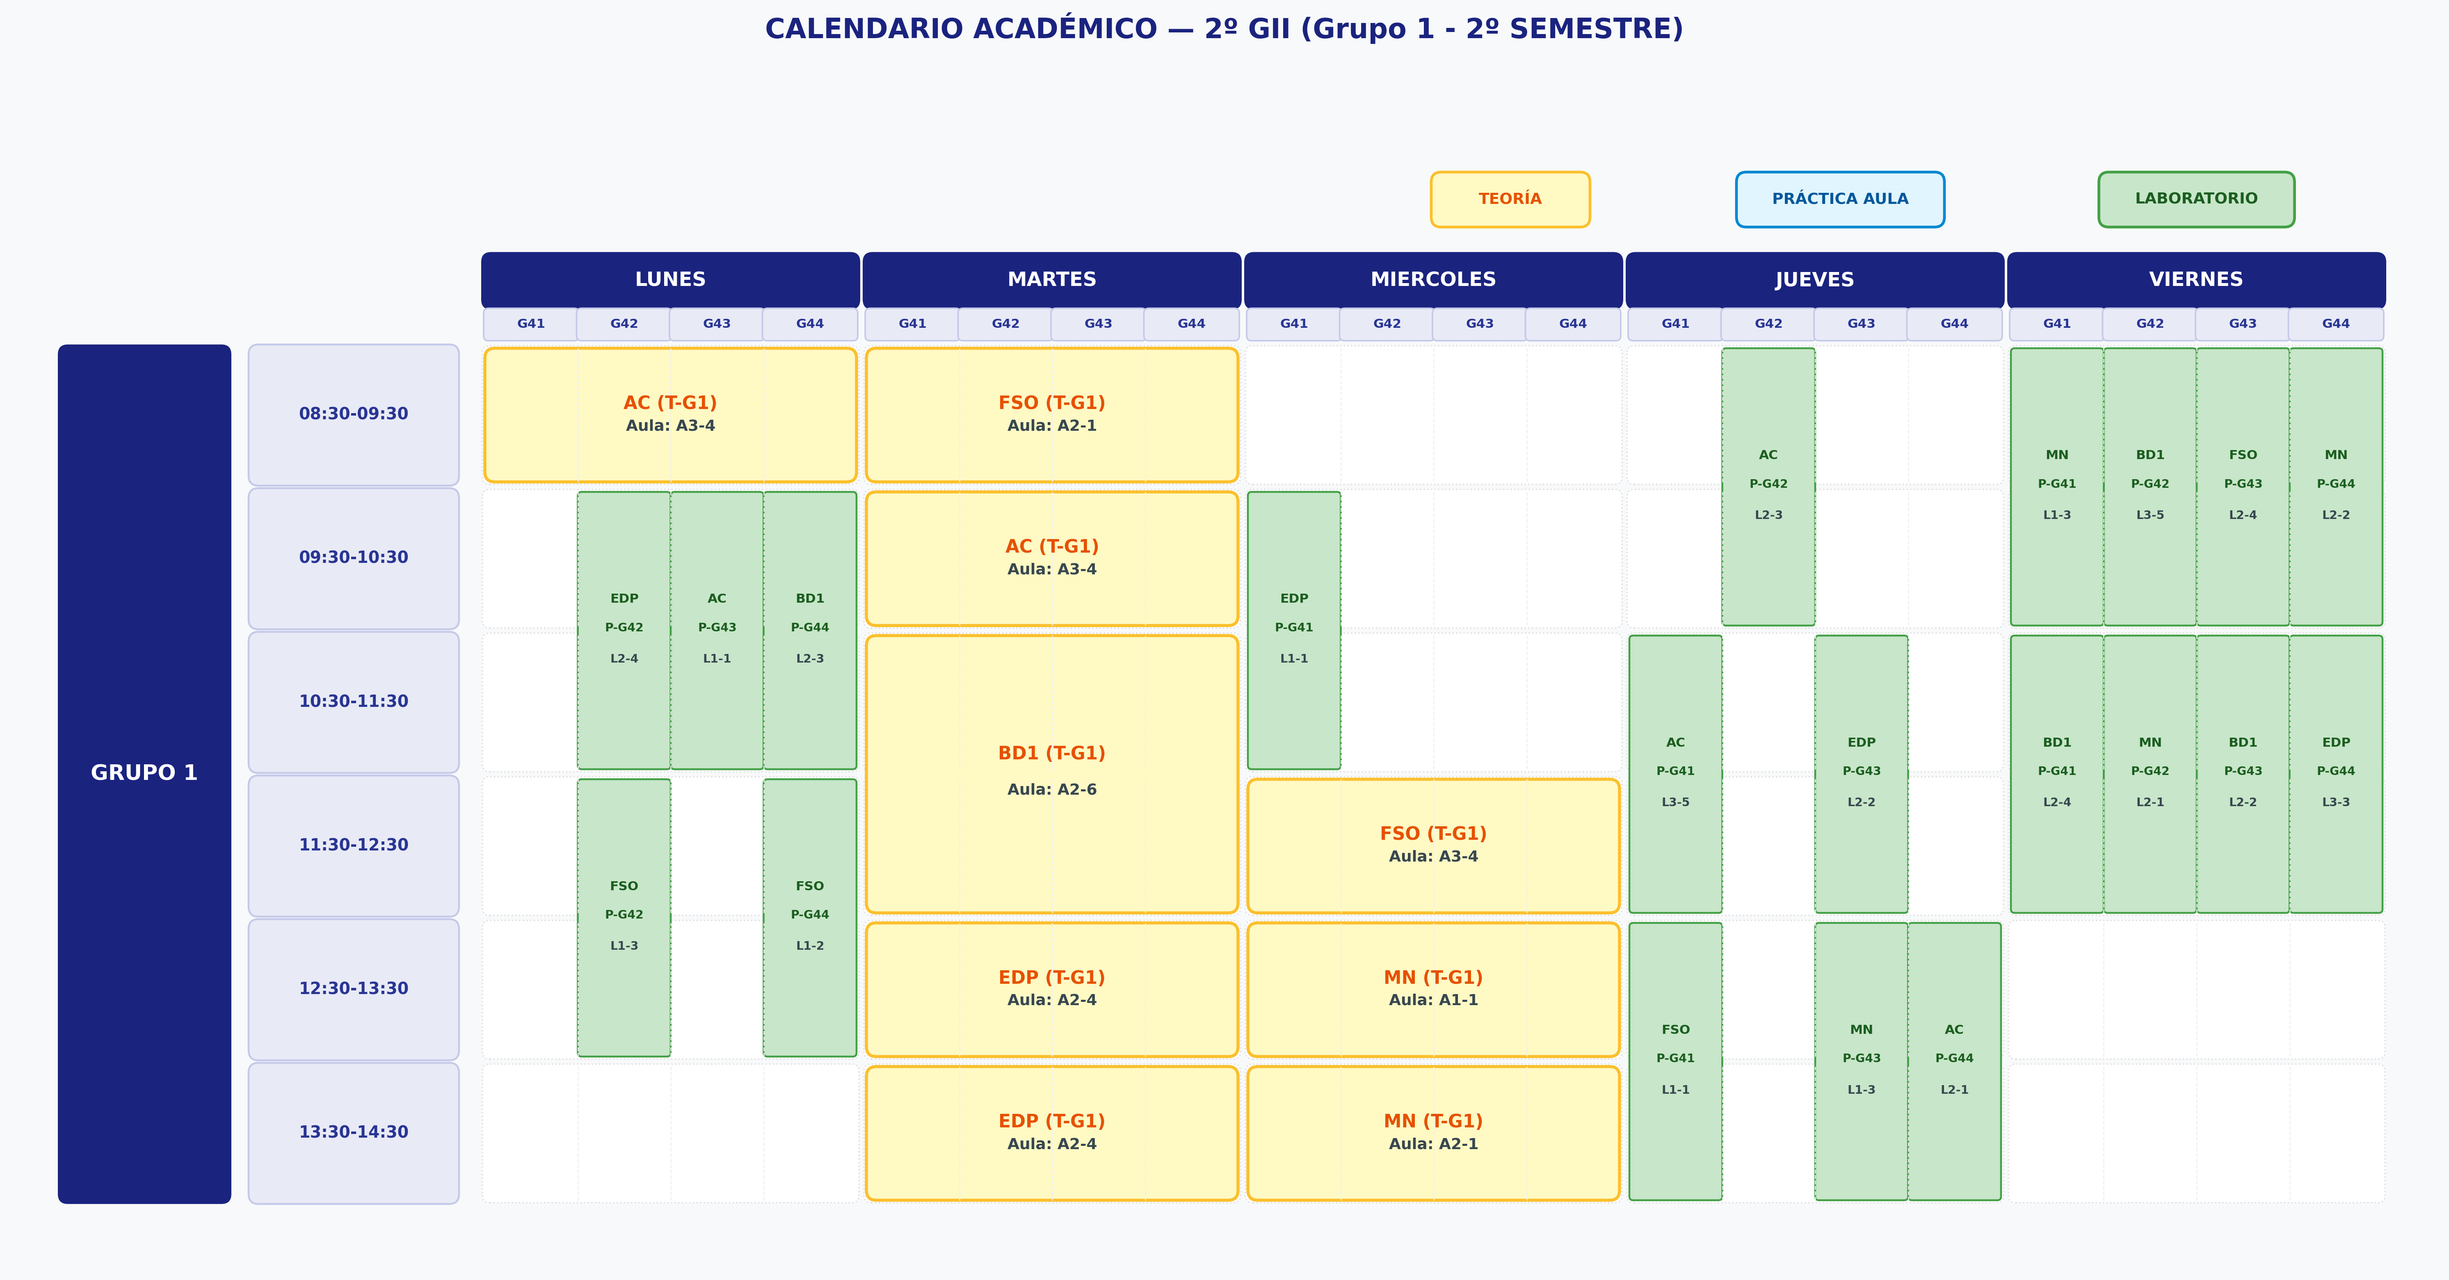
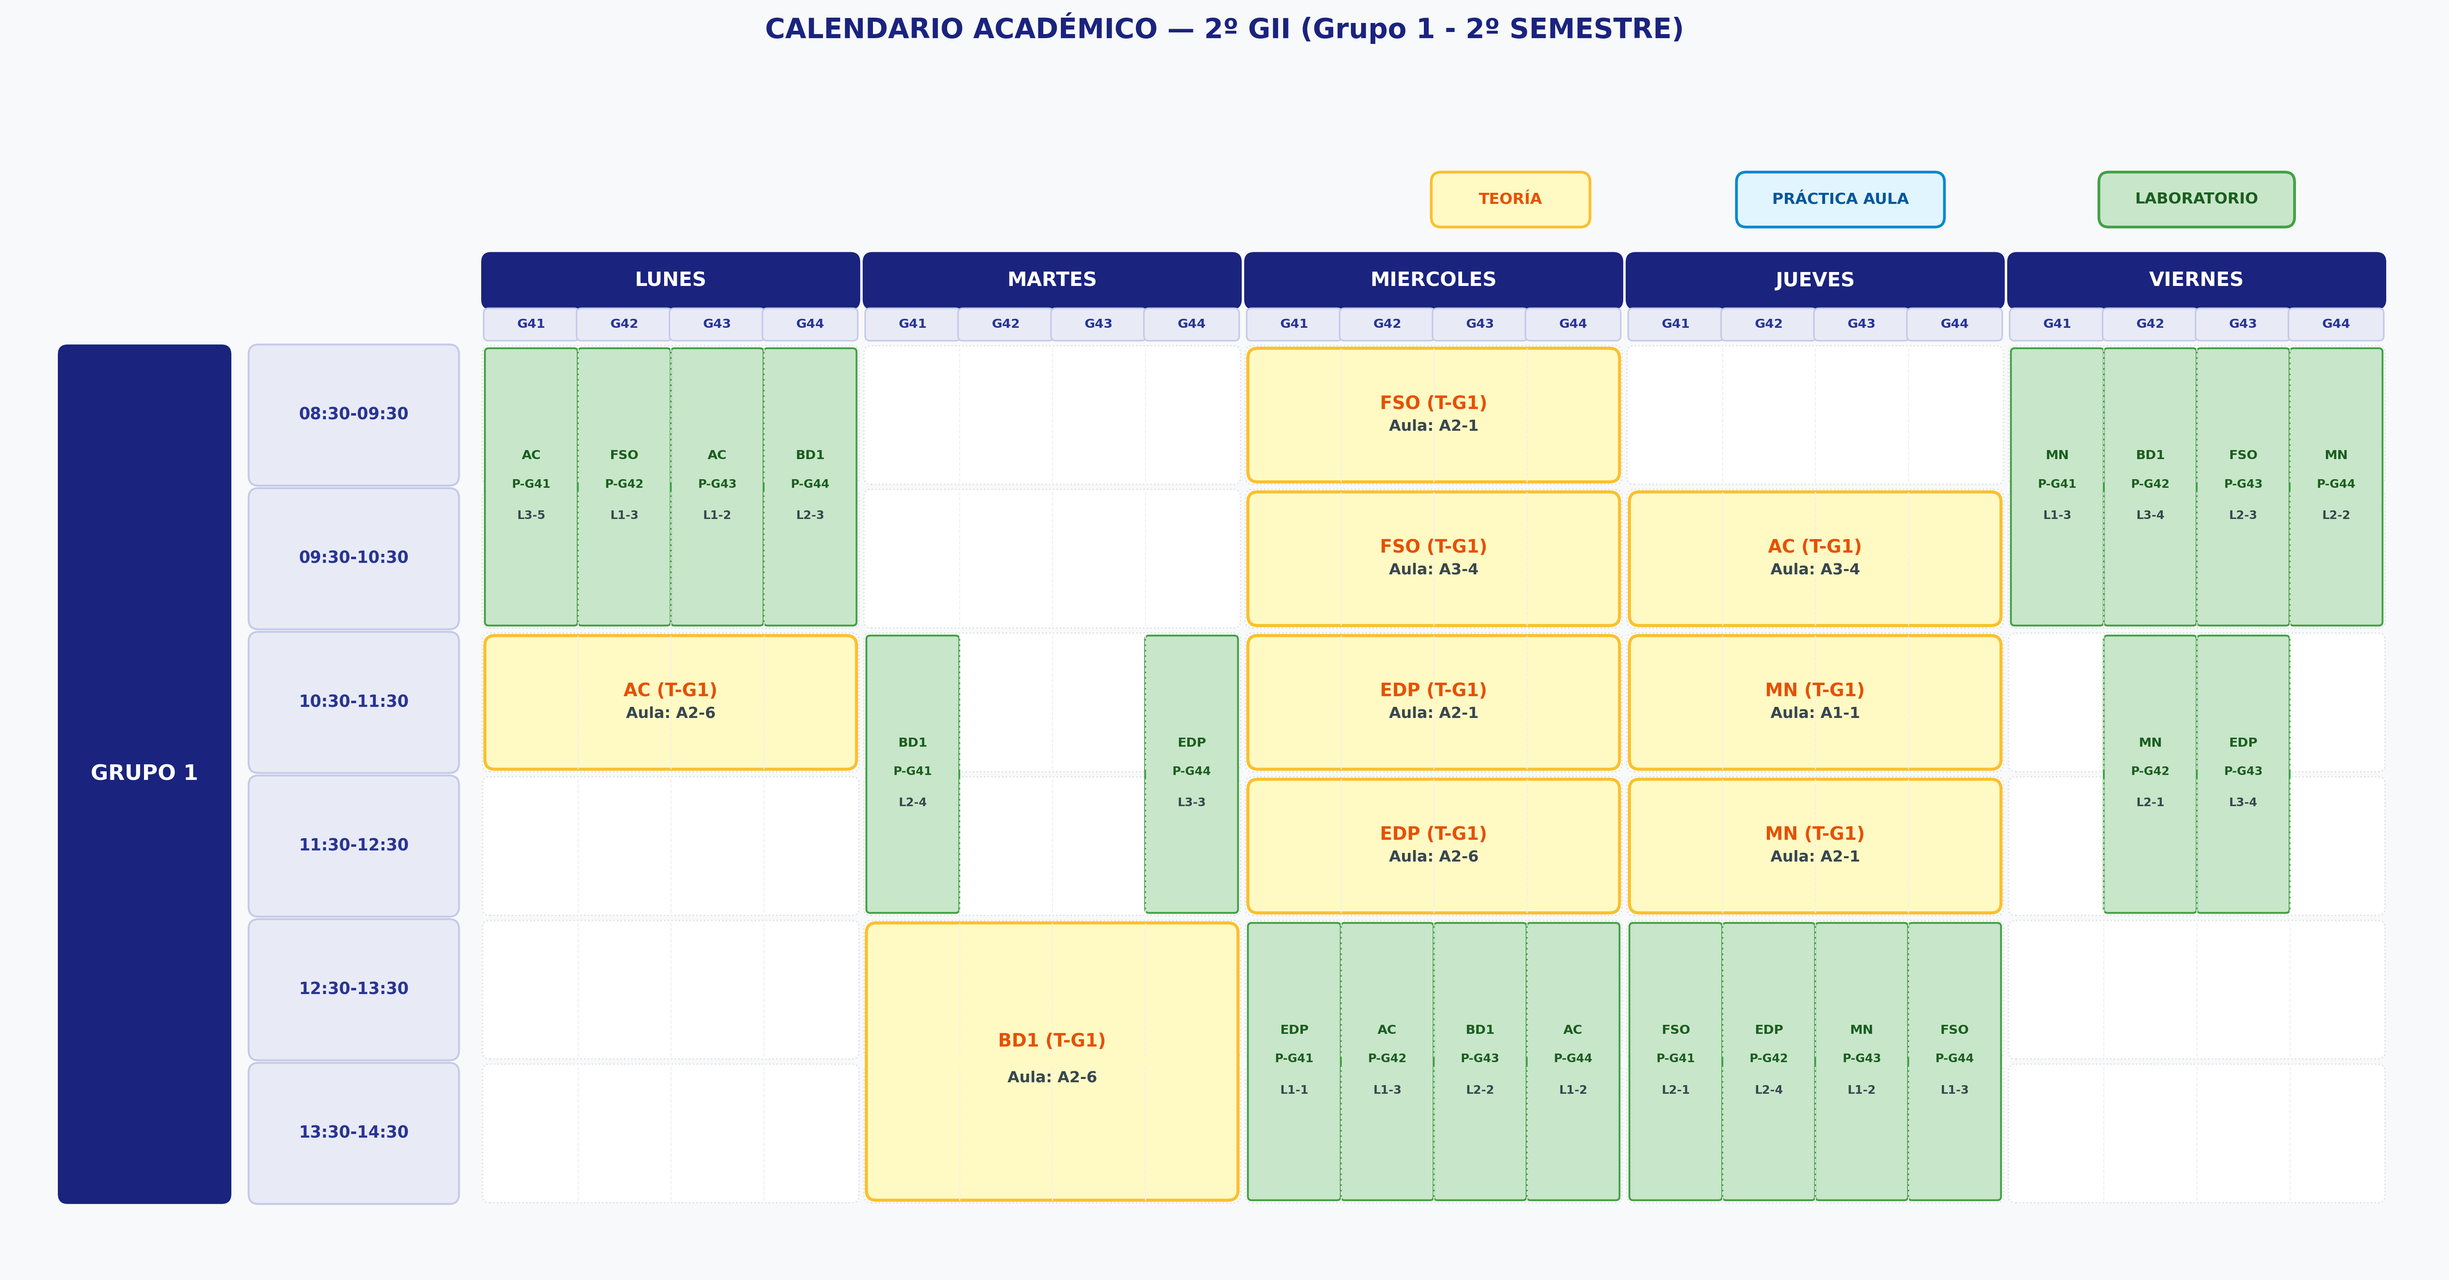
feat: incorporar 1º GII (Primer Semestre con Grupos 1, 2 y Grupo 3 de tarde) y soportar turnos en modelo_base

Changed region(s): [[0.1869, 0.2487, 0.8724, 0.9638], [0.9347, 0.4974, 0.997, 0.7151], [0.405, 0.8705, 0.4673, 0.9016]]

diff --git a/src/modelo_base.py b/src/modelo_base.py
@@ -14,23 +14,99 @@ from restricciones import (
 from visualizador import exportar_horario_png
 
 
+horas_manana = [
+    "08:30-09:30", "09:30-10:30", "10:30-11:30",
+    "11:30-12:30", "12:30-13:30", "13:30-14:30"
+]
+
+horas_tarde = [
+    "14:30-15:30", "15:30-16:30", "16:30-17:30",
+    "17:30-18:30", "18:30-19:30", "19:30-20:30"
+]
+
+dias = ["Lunes", "Martes", "Miercoles", "Jueves", "Viernes"]
+horas_por_dia = 6
+total_slots = len(dias) * horas_por_dia
+
+
+def _resolver_turno(df_sub, df_aulas, es_tarde=False, curso=1, semestre=1):
+    """Resuelve un subconjunto de sesiones (mañana o tarde) con CP-SAT."""
+    if df_sub.empty:
+        return pd.DataFrame()
+
+    horas_etiquetas = horas_tarde if es_tarde else horas_manana
+
+    model = cp_model.CpModel()
+    start_vars = {}
+    end_vars = {}
+    interval_vars = {}
+
+    for _, row in df_sub.iterrows():
+        s_id = str(row["id_sesion"]).strip()
+        duracion = int(row["duracion_horas"])
+        start = model.NewIntVar(0, total_slots - duracion, f"start_{s_id}")
+        end = model.NewIntVar(duracion, total_slots, f"end_{s_id}")
+        interval = model.NewIntervalVar(start, duracion, end, f"interval_{s_id}")
+
+        start_vars[s_id] = start
+        end_vars[s_id] = end
+        interval_vars[s_id] = interval
+
+    aplicar_restriccion_estudiantes(model, df_sub, interval_vars)
+    aplicar_restriccion_cambio_dia(model, df_sub, start_vars, end_vars, horas_por_dia)
+    aplicar_restriccion_profesores(model, df_sub, interval_vars)
+    aula_asignada = aplicar_restriccion_aulas(model, df_sub, df_aulas, start_vars, end_vars)
+    aplicar_restricciones_blandas(model, df_sub, start_vars, total_slots=total_slots)
+
+    solver = cp_model.CpSolver()
+    status = solver.Solve(model)
+
+    if status not in (cp_model.OPTIMAL, cp_model.FEASIBLE):
+        turno_nombre = "TARDE" if es_tarde else "MAÑANA"
+        print(f"No se encontró solución factible para el turno de {turno_nombre}.")
+        return None
+
+    asignaciones = []
+    for _, row in df_sub.iterrows():
+        s_id = str(row["id_sesion"]).strip()
+        slot_inicio = solver.Value(start_vars[s_id])
+        dia_idx = slot_inicio // horas_por_dia
+        hora_idx = slot_inicio % horas_por_dia
+
+        aula_elegida = "Sin aula"
+        for a_id in df_aulas["id_aula"].astype(str):
+            var_aula = aula_asignada.get((s_id, a_id))
+            if var_aula is not None:
+                try:
+                    if solver.Value(var_aula) == 1:
+                        aula_elegida = a_id
+                        break
+                except Exception:
+                    pass
+
+        asignaciones.append({
+            "Slot": slot_inicio,
+            "Sesion": s_id,
+            "Asignatura": row["asignatura"],
+            "Tipo": row["tipo"],
+            "Grupo": row["grupo"],
+            "Dia": dias[dia_idx],
+            "Hora": horas_etiquetas[hora_idx],
+            "Duracion": f"{row['duracion_horas']}h",
+            "Aula": aula_elegida,
+            "Profesor": row["profesor"],
+            "Curso": row.get("curso", curso),
+            "Semestre": row.get("semestre", semestre),
+            "GrupoPrincipal": row.get("grupo_principal", 3 if es_tarde else 1)
+        })
+
+    return pd.DataFrame(asignaciones)
+
+
 def modelo_base(semestre=1, curso=3, grupo_principal=1):
-    # 1. Definir el horizonte temporal semanal (30 franjas horarias)
-    dias = ["Lunes", "Martes", "Miercoles", "Jueves", "Viernes"]
-    horas_por_dia = 6  # 6 franjas por día: de 08:30 a 14:30
-    total_slots = len(dias) * horas_por_dia  # 30 turnos en total (0 a 29)
-
-    horas_etiquetas = [
-        "08:30-09:30", "09:30-10:30", "10:30-11:30",
-        "11:30-12:30", "12:30-13:30", "13:30-14:30"
-    ]
-
-
-    # 2. Leer las sesiones desde la carpeta datos/
     ruta_clases = "datos/clases.csv"
     df_clases = pd.read_csv(ruta_clases)
 
-    # Filtrar por curso, semestre y grupo_principal si existen las columnas
     if "curso" in df_clases.columns and curso is not None:
         df_clases = df_clases[df_clases["curso"] == curso].copy()
     if "semestre" in df_clases.columns and semestre is not None:
@@ -39,150 +115,95 @@ def modelo_base(semestre=1, curso=3, grupo_principal=1):
         df_clases = df_clases[df_clases["grupo_principal"] == grupo_principal].copy()
 
     filtro_info = f"Curso {curso} | Semestre {semestre}" + (f" | Grupo {grupo_principal}" if grupo_principal is not None else "")
-    print(f"Cargadas con exito {len(df_clases)} sesiones ({filtro_info}) desde '{ruta_clases}'.")
+    print(f"\nCargadas con éxito {len(df_clases)} sesiones ({filtro_info}) desde '{ruta_clases}'.")
 
     df_aulas = pd.read_csv("datos/aulas.csv")
-    print(f"Sesiones cargadas: {len(df_clases)} | Aulas disponibles: {len(df_aulas)}")
 
+    resultados = []
 
+    # Determinar si hay grupos de mañana y/o de tarde
+    if grupo_principal is None:
+        df_m = df_clases[df_clases["grupo_principal"].isin([1, 2])].copy()
+        df_t = df_clases[df_clases["grupo_principal"] == 3].copy()
 
-    # 3. Crear el modelo CP-SAT y definir variables de decisión
-    model = cp_model.CpModel()
+        if not df_m.empty:
+            print(f"--- Resolviendo Turno Mañana ({len(df_m)} sesiones) ---")
+            res_m = _resolver_turno(df_m, df_aulas, es_tarde=False, curso=curso, semestre=semestre)
+            if res_m is None:
+                return None
+            resultados.append(res_m)
 
-    start_vars = {}     # Variable entera: slot en el que arranca la sesión (0..29)
-    end_vars = {}       # Variable entera: slot en el que termina
-    interval_vars = {}  # Intervalo continuo: une inicio, duracion y fin
-
-    for _, row in df_clases.iterrows():
-        s_id = str(row["id_sesion"]).strip()
-        duracion = int(row["duracion_horas"])
-
-        # Una sesión no puede empezar tan tarde como para salirse de la semana
-        start = model.NewIntVar(0, total_slots - duracion, f"start_{s_id}")
-        end = model.NewIntVar(duracion, total_slots, f"end_{s_id}")
-        
-        # NewIntervalVar enlaza matemáticamente: end == start + duracion
-        interval = model.NewIntervalVar(start, duracion, end, f"interval_{s_id}")
-
-        start_vars[s_id] = start
-        end_vars[s_id] = end
-        interval_vars[s_id] = interval
-
-
-# APLICAR RESTRICCIONES DURAS
-    # alumnos
-    aplicar_restriccion_estudiantes(model, df_clases, interval_vars)
-    
-    # coherencia horaria
-    aplicar_restriccion_cambio_dia(model, df_clases, start_vars, end_vars, horas_por_dia)
-    
-    # profesores
-    aplicar_restriccion_profesores(model, df_clases, interval_vars)
-    
-    # aulas (tipo de aula y no solapamiento físico)
-    aula_asignada = aplicar_restriccion_aulas(model, df_clases, df_aulas, start_vars, end_vars)
-
-    # Restricciones a optimizar (sin aula predeterminada)
-    aplicar_restricciones_blandas(model, df_clases, start_vars, total_slots=total_slots)
-
-
-
-    # 4. Resolver
-    solver = cp_model.CpSolver()
-    status = solver.Solve(model)
-
-
-
-    # 5. Imprimir la asignación temporal básica por consola
-    if status in (cp_model.OPTIMAL, cp_model.FEASIBLE):
-        print("\n Horario óptimo 3º GII (solape, profesor, asignación dinámica de aulas, no viernes tarde):\n")
-        asignaciones = []
-
-        for _, row in df_clases.iterrows():
-            s_id = str(row["id_sesion"])
-            slot_inicio = solver.Value(start_vars[s_id])
-
-            dia_idx = slot_inicio // horas_por_dia
-            hora_idx = slot_inicio % horas_por_dia
-
-            # Buscar qué aula se le asignó a esta sesión
-            aula_elegida = "Sin aula"
-            for a_id in df_aulas["id_aula"].astype(str):
-                var_aula = aula_asignada.get((s_id, a_id))
-                if var_aula is not None:
-                    try:
-                        if solver.Value(var_aula) == 1:
-                            aula_elegida = a_id
-                            break
-                    except Exception:
-                        pass
-
-            asignaciones.append({
-                "Slot": slot_inicio,
-                "Sesion": s_id,
-                "Asignatura": row["asignatura"],
-                "Tipo": row["tipo"],
-                "Grupo": row["grupo"],
-                "Dia": dias[dia_idx],
-                "Hora": horas_etiquetas[hora_idx],
-                "Duracion": f"{row['duracion_horas']}h",
-                "Aula": aula_elegida,
-                "Profesor": row["profesor"],
-                "Curso": row.get("curso", curso),
-                "Semestre": row.get("semestre", semestre),
-                "GrupoPrincipal": row.get("grupo_principal", grupo_principal)
-            })
-
-        # Ordenamos numéricamente por slot (de 0 a 29)
-        df_resultado = pd.DataFrame(asignaciones).sort_values(by="Slot")
-        cols_mostrar = [c for c in ["Sesion", "Asignatura", "Tipo", "Grupo", "Dia", "Hora", "Duracion", "Aula", "Profesor"] if c in df_resultado.columns]
-        print(df_resultado[cols_mostrar].to_string(index=False))
-
-        # Generar el PNG con nomenclatura organizada en carpetas por curso y semestre
-        sem_carpeta = "1er_Semestre" if semestre == 1 else f"{semestre}do_Semestre"
-        carpeta_destino = f"horarios/{curso}GII/{sem_carpeta}"
-        sem_str = "1er SEMESTRE" if semestre == 1 else f"{semestre}º SEMESTRE"
-        os.makedirs(carpeta_destino, exist_ok=True)
-
-        grupos_en_resultado = sorted(df_resultado["GrupoPrincipal"].dropna().unique()) if "GrupoPrincipal" in df_resultado.columns else [1]
-
-        if len(grupos_en_resultado) > 1:
-            # 1. Exportar horario conjunto apilado (estilo oficial EII con Grupo 1 y Grupo 2)
-            exportar_horario_png(
-                df_resultado,
-                ruta_salida=f"{carpeta_destino}/horario_conjunto.png",
-                titulo=f"CALENDARIO ACADÉMICO — {curso}º GII (Grupos 1 y 2 - {sem_str})",
-                abrir_al_terminar=False
-            )
-            # 2. Exportar cada grupo individualmente
-            for gp in grupos_en_resultado:
-                df_gp = df_resultado[df_resultado["GrupoPrincipal"] == gp].copy()
-                exportar_horario_png(
-                    df_gp,
-                    ruta_salida=f"{carpeta_destino}/horario_Grupo_{int(gp)}.png",
-                    titulo=f"CALENDARIO ACADÉMICO — {curso}º GII (Grupo {int(gp)} - {sem_str})",
-                    abrir_al_terminar=False
-                )
-        else:
-            gp_num = int(grupos_en_resultado[0])
-            exportar_horario_png(
-                df_resultado,
-                ruta_salida=f"{carpeta_destino}/horario_Grupo_{gp_num}.png",
-                titulo=f"CALENDARIO ACADÉMICO — {curso}º GII (Grupo {gp_num} - {sem_str})",
-                abrir_al_terminar=False
-            )
-
-        return df_resultado
+        if not df_t.empty:
+            print(f"--- Resolviendo Turno Tarde ({len(df_t)} sesiones) ---")
+            res_t = _resolver_turno(df_t, df_aulas, es_tarde=True, curso=curso, semestre=semestre)
+            if res_t is None:
+                return None
+            resultados.append(res_t)
     else:
-        print("No se encontro solucion factible. Comprobar si hay suficientes aulas del tipo requerido")
+        es_tarde = (grupo_principal == 3)
+        res = _resolver_turno(df_clases, df_aulas, es_tarde=es_tarde, curso=curso, semestre=semestre)
+        if res is None:
+            return None
+        resultados.append(res)
+
+    if not resultados:
+        print("No hay sesiones para resolver.")
         return None
 
+    df_resultado = pd.concat(resultados, ignore_index=True)
+
+    # Imprimir resumen de asignaciones
+    cols_mostrar = [c for c in ["Sesion", "Asignatura", "Tipo", "Grupo", "Dia", "Hora", "Duracion", "Aula", "Profesor", "GrupoPrincipal"] if c in df_resultado.columns]
+    print(df_resultado[cols_mostrar].to_string(index=False))
+
+    # Generar el PNG con nomenclatura organizada en carpetas por curso y semestre
+    sem_carpeta = "1er_Semestre" if semestre == 1 else f"{semestre}do_Semestre"
+    carpeta_destino = f"horarios/{curso}GII/{sem_carpeta}"
+    sem_str = "1er SEMESTRE" if semestre == 1 else f"{semestre}º SEMESTRE"
+    os.makedirs(carpeta_destino, exist_ok=True)
+
+    grupos_en_resultado = sorted(df_resultado["GrupoPrincipal"].dropna().unique()) if "GrupoPrincipal" in df_resultado.columns else [1]
+
+    if len(grupos_en_resultado) > 1:
+        gps_txt = " y ".join([f"Grupo {int(g)}" if g != 3 else "Grupo 3 (Tarde)" for g in grupos_en_resultado])
+        exportar_horario_png(
+            df_resultado,
+            ruta_salida=f"{carpeta_destino}/horario_conjunto.png",
+            titulo=f"CALENDARIO ACADÉMICO — {curso}º GII ({gps_txt} - {sem_str})",
+            abrir_al_terminar=False
+        )
+        for gp in grupos_en_resultado:
+            df_gp = df_resultado[df_resultado["GrupoPrincipal"] == gp].copy()
+            txt_ind = f"Grupo {int(gp)}" if gp != 3 else "Grupo 3 (Tarde)"
+            exportar_horario_png(
+                df_gp,
+                ruta_salida=f"{carpeta_destino}/horario_Grupo_{int(gp)}.png",
+                titulo=f"CALENDARIO ACADÉMICO — {curso}º GII ({txt_ind} - {sem_str})",
+                abrir_al_terminar=False
+            )
+    else:
+        gp_num = int(grupos_en_resultado[0])
+        txt_ind = f"Grupo {gp_num}" if gp_num != 3 else "Grupo 3 (Tarde)"
+        exportar_horario_png(
+            df_resultado,
+            ruta_salida=f"{carpeta_destino}/horario_Grupo_{gp_num}.png",
+            titulo=f"CALENDARIO ACADÉMICO — {curso}º GII ({txt_ind} - {sem_str})",
+            abrir_al_terminar=False
+        )
+
+    return df_resultado
+
+
 if __name__ == "__main__":
-    print("\n================== 3º GII - SEMESTRE 1 ==================")
-    modelo_base(semestre=1, curso=3, grupo_principal=1)
-    print("\n================== 3º GII - SEMESTRE 2 ==================")
-    modelo_base(semestre=2, curso=3, grupo_principal=1)
+    print("\n================== 1º GII - SEMESTRE 1 (GRUPOS 1, 2 Y 3 TARDE) ==================")
+    modelo_base(semestre=1, curso=1, grupo_principal=None)
+
     print("\n================== 2º GII - SEMESTRE 1 (GRUPOS 1 Y 2) ==================")
     modelo_base(semestre=1, curso=2, grupo_principal=None)
     print("\n================== 2º GII - SEMESTRE 2 (GRUPOS 1 Y 2) ==================")
     modelo_base(semestre=2, curso=2, grupo_principal=None)
+
+    print("\n================== 3º GII - SEMESTRE 1 ==================")
+    modelo_base(semestre=1, curso=3, grupo_principal=1)
+    print("\n================== 3º GII - SEMESTRE 2 ==================")
+    modelo_base(semestre=2, curso=3, grupo_principal=1)

diff --git a/src/restricciones.py b/src/restricciones.py
@@ -36,7 +36,9 @@ def obtener_subgrupos_estudiantes(row, df_clases=None):
         "17": {"41", "42"},
         "18": {"43", "44"},
         "19": {"45", "46"},
-        "20": {"47", "48"}
+        "20": {"47", "48"},
+        "21": {"49", "50"},
+        "22": {"51", "52"}
     }
     if "prob" in tipo_str or "aula" in tipo_str or "pa" in tipo_str:
         if grupo_str in mapeo_aula:
